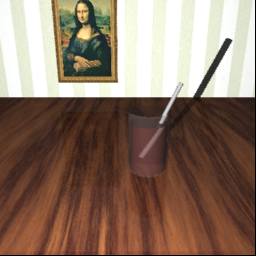
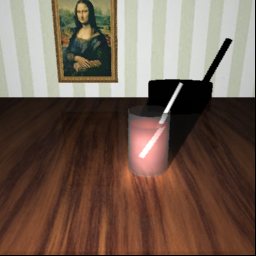
Caustics; todo global

diff --git a/KdTree.hpp b/KdTree.hpp
@@ -3,6 +3,7 @@
 #include <glm/glm.hpp>
 #include <iostream>
 #include <vector>
+#include <queue>
 
 template <class T>
 struct KdNode
@@ -11,6 +12,66 @@ struct KdNode
     T data;
     KdNode<T> *left;
     KdNode<T> *right;
+};
+
+template <class T>
+struct Compare
+{
+    bool operator()(std::pair<T *, float> a, std::pair<T *, float> b)
+    {
+        return a.second < b.second;
+    }
+};
+
+template <class T>
+struct Heap
+{
+    Heap(uint k) : q(), max_size(k) {}
+
+    std::priority_queue<std::pair<T *, float>, std::vector<std::pair<T *, float>>, Compare<T>> q;
+    const uint max_size;
+
+    float Front() const
+    {
+        if (q.size() < max_size)
+        {
+            return std::numeric_limits<float>::infinity();
+        }
+        else
+        {
+            return q.top().second;
+        }
+    }
+
+    bool TryInsert(KdNode<T> *t, float dist)
+    {
+        if (q.size() + 1 > max_size)
+        {
+            if (Front() > dist)
+            {
+                q.pop();
+                q.emplace(&t->data, dist);
+                return true;
+            }
+        }
+        else
+        {
+            q.emplace(&t->data, dist);
+            return true;
+        }
+        return false;
+    }
+
+    std::vector<T *> GetValues()
+    {
+        std::vector<T *> v;
+        while (q.size())
+        {
+            v.push_back(q.top().first);
+            q.pop();
+        }
+        return v;
+    }
 };
 
 template <class T>
@@ -26,6 +87,7 @@ public:
         node->data = data;
         InsertNode(node, root, 0);
     }
+
     // Gets the nodes that have a pos with each dimension within r from p.
     // r is positive
     std::vector<T *> get_within_range(float r, const glm::vec3 &p) const
@@ -34,6 +96,15 @@ public:
         GetRange(root, p, r, 0, v);
         return v;
     }
+
+    std::vector<T *> k_nearest(int k, const glm::vec3 &ref, float &max_distance) const
+    {
+        Heap<T> heap(k);
+        Nearest(root, heap, ref, 0);
+        max_distance = heap.Front();
+        return heap.GetValues();
+    }
+
     uint size() const
     {
         return s;
@@ -43,6 +114,7 @@ private:
     KdNode<T> *InsertNode(KdNode<T> *node, KdNode<T> *&root, int d);
     void GetRange(KdNode<T> *root, const glm::vec3 &p, float r,
                   int d, std::vector<T *> &v) const;
+    void Nearest(KdNode<T> *t, Heap<T> &heap, const glm::vec3 &ref, int d) const;
 
     const int dim = 3;
     uint s = 0;
@@ -111,5 +183,44 @@ void KdTree<T>::GetRange(KdNode<T> *t, const glm::vec3 &p, float r,
     {
         GetRange(t->right, p, r, (d + 1) % dim, v);
         GetRange(t->left, p, r, (d + 1) % dim, v);
+    }
+}
+
+// http://andrewd.ces.clemson.edu/courses/cpsc805/references/nearest_search.pdf
+template <class T>
+void KdTree<T>::Nearest(KdNode<T> *t, Heap<T> &heap,
+                        const glm::vec3 &ref, int d) const
+{
+    if (!t)
+    {
+        return;
+    }
+    float dist = heap.Front();
+    float new_dist = glm::distance(ref, t->pos);
+    if (heap.TryInsert(t, new_dist))
+    {
+        dist = heap.Front();
+    }
+    if (ref[d] < t->pos[d])
+    {
+        if (ref[d] - dist <= t->pos[d])
+        {
+            Nearest(t->left, heap, ref, (d + 1) % dim);
+        }
+        if (ref[d] + dist > t->pos[d])
+        {
+            Nearest(t->right, heap, ref, (d + 1) % dim);
+        }
+    }
+    else
+    {
+        if (ref[d] + dist > t->pos[d])
+        {
+            Nearest(t->right, heap, ref, (d + 1) % dim);
+        }
+        if (ref[d] - dist <= t->pos[d])
+        {
+            Nearest(t->left, heap, ref, (d + 1) % dim);
+        }
     }
 }

diff --git a/PhotonMapping.cpp b/PhotonMapping.cpp
@@ -3,11 +3,12 @@
 #include "RayTracer.hpp"
 #include "GeometryNode.hpp"
 #include "SurfaceInteraction.hpp"
+#include "KdTree.hpp"
 
 #include <glm/ext.hpp>
 
 // Photons per light source.
-const uint PHOTONS_PER_THREAD = 10000;
+const uint PHOTONS_PER_THREAD = 100000;
 const uint PHOTON_MAPPING_THREAD_COUNT = 10;
 
 // Returns the node that is *closer* (using the t_min value)
@@ -44,8 +45,8 @@ const GeometryNode *GetClosestIntersection(const SceneNode *node, const Ray &ray
     return geo;
 }
 
-PhotonMapper::PhotonMapper() : global(),
-                               caustic(),
+PhotonMapper::PhotonMapper() : global(new KdTree<Photon>()),
+                               caustic(new KdTree<Photon>()),
                                threads(PHOTON_MAPPING_THREAD_COUNT),
                                global_lock(),
                                caustic_lock(),
@@ -128,16 +129,19 @@ void PhotonMapper::EmitPhoton(const SceneNode *root, const Ray *ray, Photon &pho
     float P_refr = refractivity * P_r;
     float P_refl = reflectivity * P_r;
     float r = static_cast<float>(rand()) / static_cast<float>(RAND_MAX);
-    photon.power *= diffuse;
 
     if (r < P_refl)
     {
         // Specular Reflect
+
+        // photon.power *= diffuse; // will need this for coloured caustics (e.g. wine)
         glm::vec3 reflect = norm_ray - (2.0f * (glm::dot(norm_ray, normal) * normal));
         ray_out = Ray(world_point, world_point + reflect);
+        photon.caustic = false;
     }
     else if (r < P_refl + P_refr)
     {
+        // photon.power *= diffuse;
         // Refraction
         // NOTE: might hit itself
         // Already calculated refract ray
@@ -149,6 +153,7 @@ void PhotonMapper::EmitPhoton(const SceneNode *root, const Ray *ray, Photon &pho
             insert_caustic(photon, world_point);
         }
         // Diffuse
+        photon.power *= diffuse;
         photon.caustic = false;
         glm::vec3 reflect = norm_ray - (2.0f * (glm::dot(norm_ray, normal) * normal));
         ray_out = Ray(world_point, world_point + reflect);
@@ -173,13 +178,13 @@ void PhotonMapper::EmitPhoton(const SceneNode *root, const Ray *ray, Photon &pho
 void PhotonMapper::insert_global(Photon &photon, glm::vec3 &point)
 {
     global_lock.lock();
-    global.insert(photon, point);
+    global->insert(photon, point);
     global_lock.unlock();
 }
 void PhotonMapper::insert_caustic(Photon &photon, glm::vec3 &point)
 {
     caustic_lock.lock();
-    caustic.insert(photon, point);
+    caustic->insert(photon, point);
     caustic_lock.unlock();
 }
 

diff --git a/SurfaceInteraction.cpp b/SurfaceInteraction.cpp
@@ -2,6 +2,8 @@
 
 #include "RayTracer.hpp"
 #include "GeometryNode.hpp"
+#include "KdTree.hpp"
+
 #include <glm/ext.hpp>
 
 bool LightReached(const SceneNode *node, const Ray &ray, const glm::mat4 &m, const double &t_min)
@@ -38,7 +40,7 @@ bool LightReached(const SceneNode *node, const Ray &ray, const glm::mat4 &m, con
     }
 }
 
-glm::vec3 Phong(
+glm::vec3 Colour(
     const SceneNode *root,
     const std::list<Light *> &lights,
     const glm::vec3 &norm,
@@ -48,18 +50,29 @@ glm::vec3 Phong(
     const glm::vec3 &ambient,
     const glm::vec3 &object_color,
     Material *material,
-    const PhotonMap &global_map)
+    const PhotonMap &global_map,
+    const PhotonMap &caustic_map)
 {
-    glm::vec3 m = {0, 0, 0};
-    std::vector<Photon *> photons = global_map.get_within_range(0.1, point);
-    for (auto *photon : photons)
+    float max_distance;
+    glm::vec3 global = {0, 0, 0};
+    glm::vec3 caustic = {0, 0, 0};
+
+    std::vector<Photon *> photons = global_map.k_nearest(1, point, max_distance);
+    // for (auto *photon : photons)
+    // {
+    //     global += photon->power;
+    // }
+    // global /= M_PI * max_distance * max_distance * 100.f;
+
+    std::vector<Photon *> caustic_photons = caustic_map.k_nearest(500, point, max_distance);
+    for (auto *photon : caustic_photons)
     {
-        m += photon->power;
+        caustic += photon->power;
     }
-    if (photons.size() > 1)
-    {
-        // m /= 1000.f; //photons.size();
-    }
+    caustic /= M_PI * max_distance * max_distance * 100.f;
+    glm::vec3 m = caustic;
+
+    // glm::vec3 m = (global + caustic) / 2.0f;
     glm::vec3 col = m * object_color;
     // glm::vec3 col = ambient * object_color;
     for (Light *light : lights)

diff --git a/RayTracer.cpp b/RayTracer.cpp
@@ -11,6 +11,7 @@
 #include "SurfaceInteraction.hpp"
 #include "Texture.hpp"
 #include "PhotonMapping.hpp"
+#include "KdTree.hpp"
 
 const int RENDER_THREAD_COUNT = 12;
 const int ROWS_PER_THREAD = 10;
@@ -105,7 +106,7 @@ bool Traverse(
 	normal = glm::normalize(normal);
 	glm::vec3 norm_ray = glm::normalize(ray.B_A);
 	glm::vec3 reflect = norm_ray - (2.0f * (glm::dot(norm_ray, normal) * normal));
-	glm::vec3 phong = Phong(root, lights, normal, norm_ray, reflect, world_point, ambient, object_color, geo->m_material, global_map);
+	glm::vec3 phong = Colour(root, lights, normal, norm_ray, reflect, world_point, ambient, object_color, geo->m_material, global_map, caustic_map);
 	double reflectivity = geo->m_material->Reflectivity();
 	double refractivity = geo->m_material->Refractivity();
 	double ior = geo->m_material->IndexOfRefraction();
@@ -285,8 +286,8 @@ void Render(
 	PhotonMapper photon_mapper;
 	photon_mapper.MapPhotons(lights, root);
 
-	const PhotonMap &global_map = photon_mapper.GlobalMap();
-	const PhotonMap &caustic_map = photon_mapper.CausticMap();
+	const PhotonMap &global_map = *photon_mapper.GlobalMap();
+	const PhotonMap &caustic_map = *photon_mapper.CausticMap();
 
 	std::cout << "Global photon map size: " << global_map.size() << std::endl;
 	std::cout << "Caustic photon map size: " << caustic_map.size() << std::endl;

diff --git a/PhotonMapping.hpp b/PhotonMapping.hpp
@@ -1,11 +1,11 @@
 #pragma once
 
-#include "KdTree.hpp"
 #include "SceneNode.hpp"
 #include "Light.hpp"
 
 #include <mutex>
 #include <thread>
+#include <vector>
 
 class Ray;
 
@@ -15,6 +15,9 @@ struct Photon
     bool first_surface_hit = false;
     bool caustic = true;
 };
+
+template <class T>
+class KdTree;
 
 using PhotonMap = KdTree<Photon>;
 
@@ -26,8 +29,8 @@ class PhotonMapper
 public:
     PhotonMapper();
     void MapPhotons(const std::list<Light *> &lights, const SceneNode *root);
-    const PhotonMap &GlobalMap() const { return global; }
-    const PhotonMap &CausticMap() const { return caustic; }
+    const PhotonMap *GlobalMap() const { return global; }
+    const PhotonMap *CausticMap() const { return caustic; }
 
 private:
     void EmitPhotonBatch(const Light *light, const SceneNode *root);
@@ -37,8 +40,8 @@ private:
     void insert_caustic(Photon &photon, glm::vec3 &point);
     void update_progress(int n);
 
-    PhotonMap global;
-    PhotonMap caustic;
+    PhotonMap *global;
+    PhotonMap *caustic;
 
     std::vector<std::thread> threads;
 

diff --git a/SurfaceInteraction.hpp b/SurfaceInteraction.hpp
@@ -2,7 +2,6 @@
 
 #include <glm/glm.hpp>
 #include <list>
-
 #include "PhotonMapping.hpp"
 
 class SceneNode;
@@ -10,7 +9,7 @@ class Light;
 class Material;
 class Ray;
 
-glm::vec3 Phong(
+glm::vec3 Colour(
     const SceneNode *root,
     const std::list<Light *> &lights,
     const glm::vec3 &norm,
@@ -20,7 +19,8 @@ glm::vec3 Phong(
     const glm::vec3 &ambient,
     const glm::vec3 &texture_color,
     Material *material,
-    const PhotonMap &global_map);
+    const PhotonMap &global_map,
+    const PhotonMap &caustic_map);
 
 Ray CalculateRefraction(
     const glm::vec3 &world_point,
